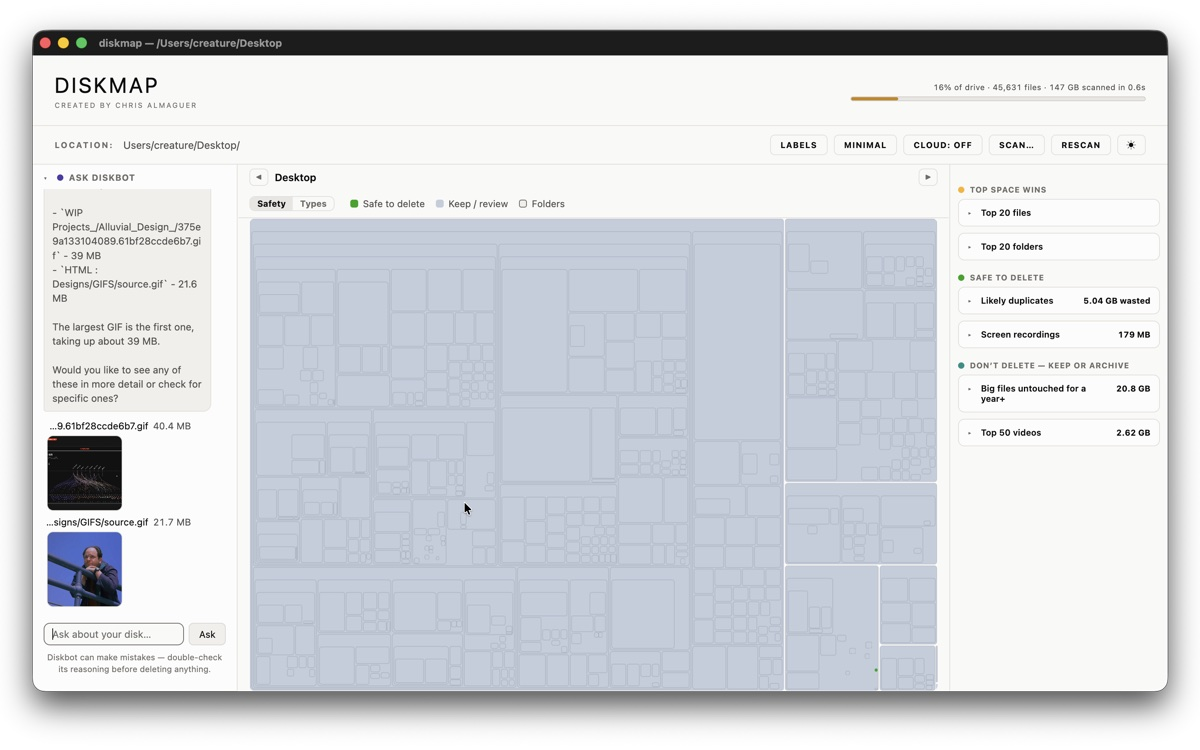
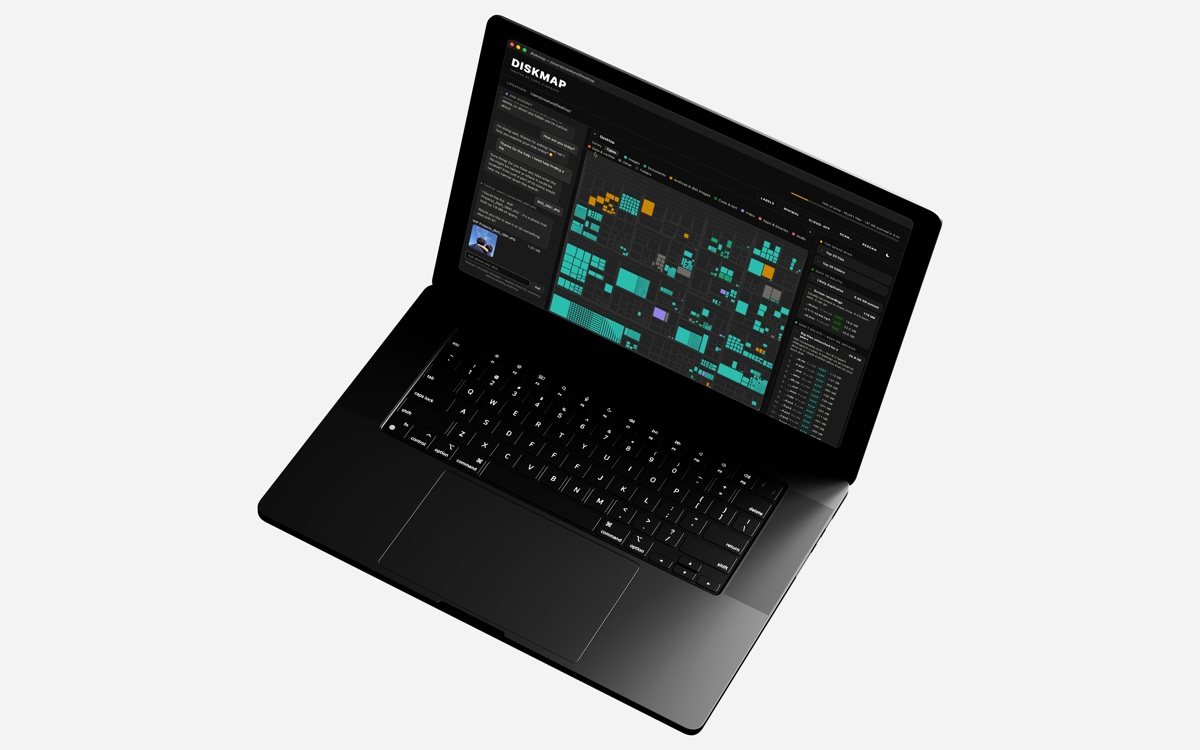
Use the laptop mockup as the Disk Map tile
Cropped from the 5544x3959 render to the tile's 16:10, centred on the
machine. Replaces the flat screen capture, and matches how the other
product tiles present - the app in a device rather than a screenshot.

diff --git a/index.html b/index.html
@@ -322,7 +322,11 @@
 
     <div class="tiles tiles--3" data-reveal-group data-reveal-step="50">
       <article class="tile" data-reveal>
-      <div class="tile__thumb"><img src="assets/img/tools/diskmap.jpg?v=20260810l" alt="The DiskMap treemap filling the window, every file on the drive drawn as a rectangle sized by the space it takes, with the Diskbot panel alongside."></div>
+      <div class="tile__thumb">
+        <img src="assets/img/tools/diskmap.jpg?v=20260813a"
+             alt="Disk Map open on a laptop, angled against a pale ground: the Diskbot conversation down the left, the treemap of the whole drive in the middle, and the safe-to-delete rail on the right."
+             width="1200" height="750">
+      </div>
       <div class="tile__body">
         <div class="tile__head">
           <h3 class="tile__title"><a class="tile__link" href="work/diskmap.html">Disk Map</a></h3>
